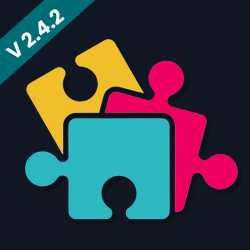
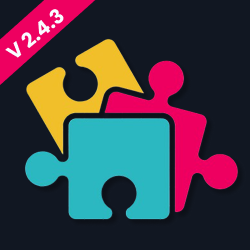
feat: added lifecycle & keyboardvisibility controller

Changed region(s): [[0.0, 0.0, 0.392, 0.336]]

diff --git a/lib/src/utils/keyboard_visibility.dart b/lib/src/utils/keyboard_visibility.dart
@@ -1,0 +1,95 @@
+part of 'package:flutter_addons/flutter_addons.dart';
+
+/// A lightweight widget and controller to detect keyboard visibility using MediaQuery.
+/// No platform channel or external dependency required.
+/// Controller for tracking keyboard visibility using [ChangeNotifier].
+class KeyboardVisibilityController extends ChangeNotifier
+    with WidgetsBindingObserver {
+  bool _isVisible = false;
+
+  KeyboardVisibilityController() {
+    WidgetsBinding.instance.addObserver(this);
+    _isVisible =
+        WidgetsBinding
+            .instance
+            .platformDispatcher
+            .views
+            .first
+            .viewInsets
+            .bottom >
+        0;
+  }
+
+  bool get isVisible => _isVisible;
+
+  @override
+  void dispose() {
+    WidgetsBinding.instance.removeObserver(this);
+    super.dispose();
+  }
+
+  @override
+  void didChangeMetrics() {
+    final bottomInset =
+        WidgetsBinding
+            .instance
+            .platformDispatcher
+            .views
+            .first
+            .viewInsets
+            .bottom;
+    final newVisibility = bottomInset > 0;
+    if (newVisibility != _isVisible) {
+      _isVisible = newVisibility;
+      notifyListeners();
+    }
+  }
+}
+
+/// Signature for the builder function which returns [isKeyboardVisible].
+typedef KeyboardVisibilityWidgetBuilder =
+    Widget Function(BuildContext context, bool isKeyboardVisible);
+
+/// A widget that rebuilds when the keyboard visibility changes.
+class KeyboardVisibilityBuilder extends StatefulWidget {
+  final KeyboardVisibilityWidgetBuilder builder;
+
+  const KeyboardVisibilityBuilder({super.key, required this.builder});
+
+  @override
+  State<KeyboardVisibilityBuilder> createState() =>
+      _KeyboardVisibilityBuilderState();
+}
+
+class _KeyboardVisibilityBuilderState extends State<KeyboardVisibilityBuilder>
+    with WidgetsBindingObserver {
+  late bool _isKeyboardVisible;
+
+  @override
+  void initState() {
+    super.initState();
+    WidgetsBinding.instance.addObserver(this);
+    _isKeyboardVisible = View.of(context).viewInsets.bottom > 0;
+  }
+
+  @override
+  void dispose() {
+    WidgetsBinding.instance.removeObserver(this);
+    super.dispose();
+  }
+
+  @override
+  void didChangeMetrics() {
+    final bottomInset = View.of(context).viewInsets.bottom;
+    ;
+    final newVisibility = bottomInset > 0;
+    if (newVisibility != _isKeyboardVisible) {
+      setState(() => _isKeyboardVisible = newVisibility);
+    }
+  }
+
+  @override
+  Widget build(BuildContext context) {
+    return widget.builder(context, _isKeyboardVisible);
+  }
+}

diff --git a/lib/src/core/responsive/entry/entry_scope.dart b/lib/src/core/responsive/entry/entry_scope.dart
@@ -14,9 +14,6 @@ class ResponsiveScope extends StatefulWidget {
     this.errorScreen = ErrorScreen.brokenRobot,
   });
 
-  /// **[DEPRECATED]**: `layoutBuilder` will be removed in 3.0 update.
-  /// Please migrate to the new responsive system once it becomes available.
-  /// Note: The current implementation causes route restarts on responsive changes.
   /// Builds the layout using the provided layout info (media, screen type, orientation).
   final Widget Function(MediaInfo layout) layoutBuilder;
   //Alternativly working on this.[Beta]

diff --git a/lib/flutter_addons.dart b/lib/flutter_addons.dart
@@ -125,6 +125,7 @@ part 'src/extension/context/focus_node.dart';
 part 'src/utils/data_image.dart';
 part 'src/utils/network_utils.dart';
 part 'src/utils/validator_utils.dart';
+part 'src/utils/keyboard_visibility.dart';
 
 /// -----------------------
 /// 🧪 Fake / Demo Data

diff --git a/CHANGELOG.md b/CHANGELOG.md
@@ -1,7 +1,7 @@
 # 2.4.3
 
 - Added `LifecycleManager` for managing app lifecycle.
-- Trying to remove layoutbuilder
+- Added Keyboard visbility Controller.
 
 # 2.4.2
 
